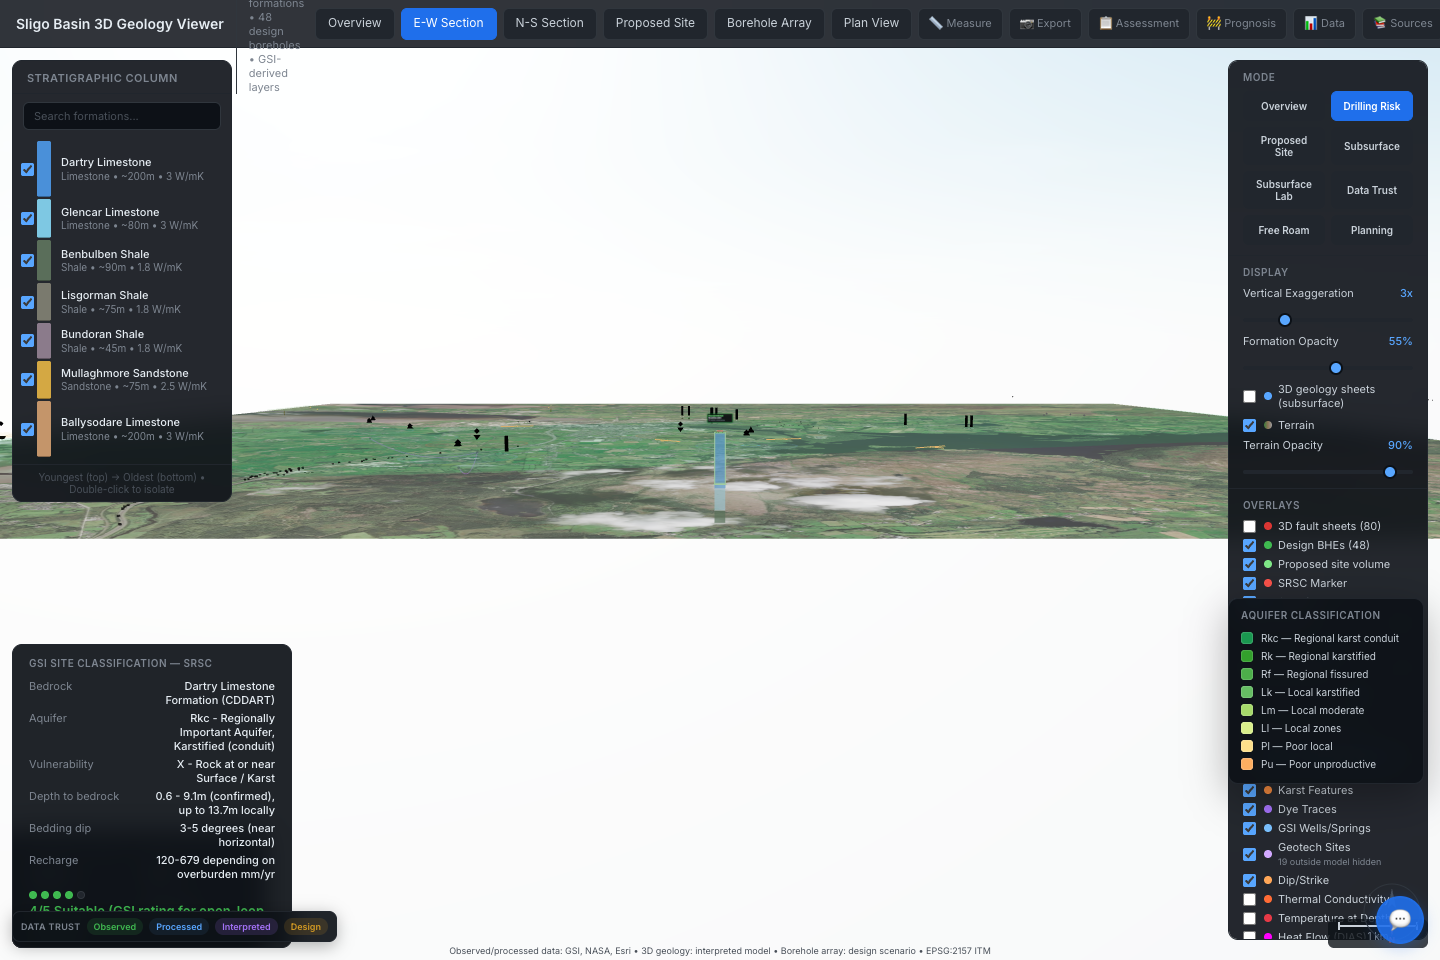
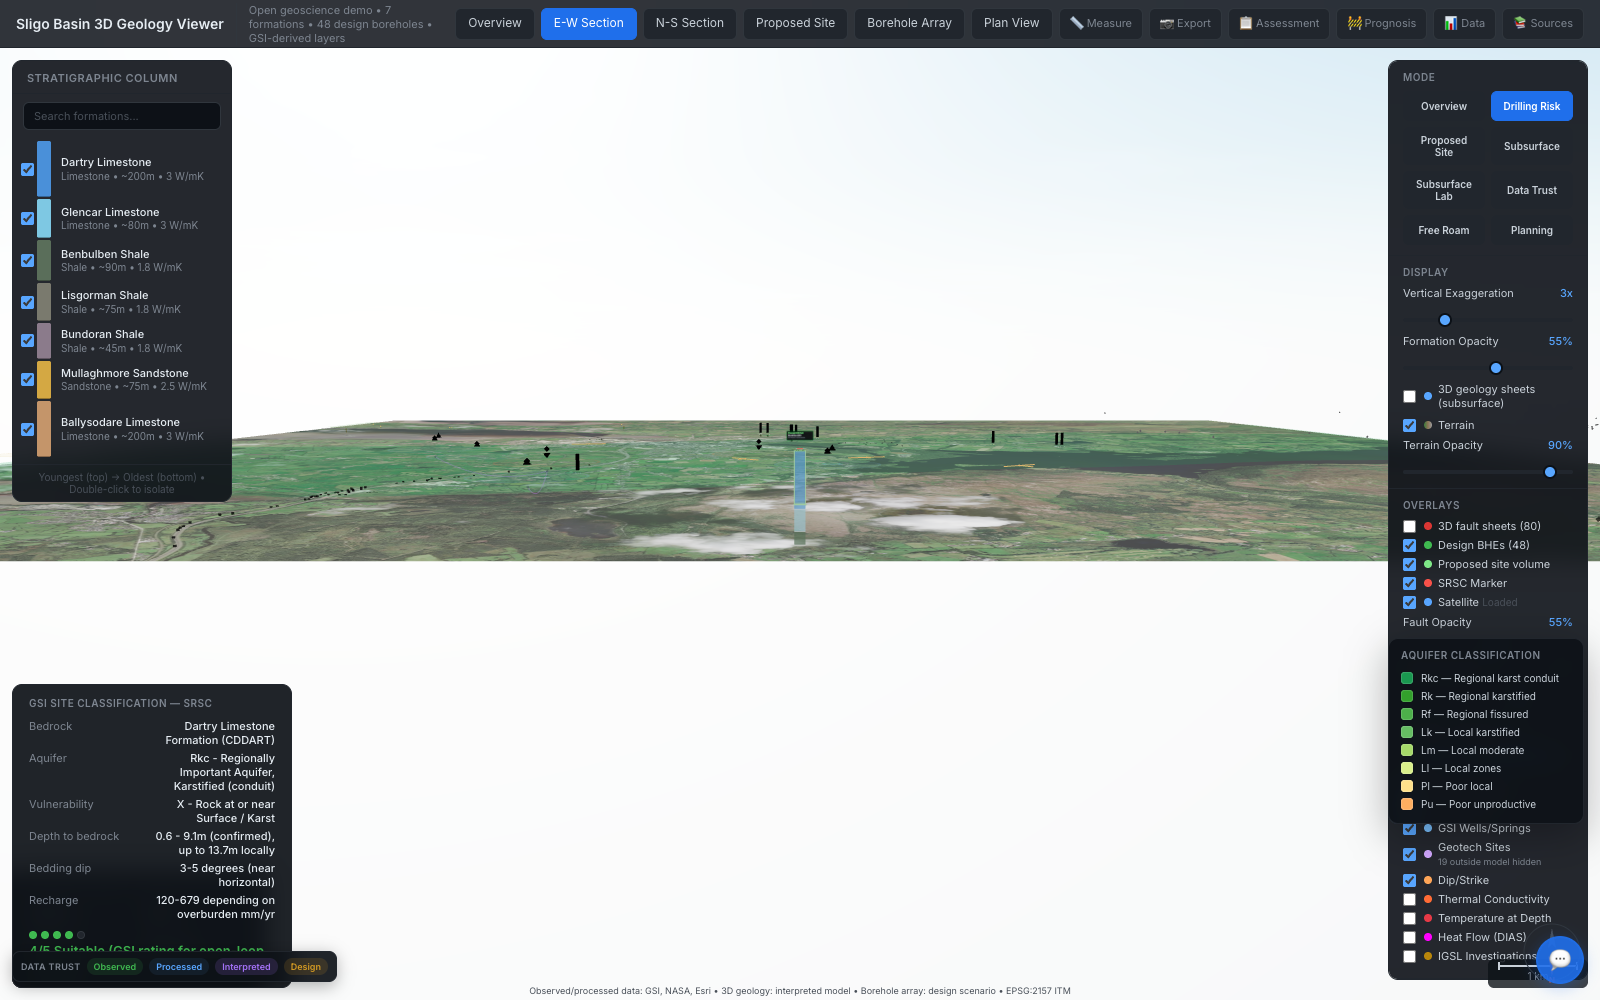
Refresh portfolio screenshots

diff --git a/README.md b/README.md
@@ -16,13 +16,17 @@ It turns public geoscience datasets into an interactive subsurface scene with fo
 
 ## Screenshots
 
-| Overview | Cross Section |
+| Overview | Proposed Site |
 | --- | --- |
-| ![Overview](docs/assets/overview.png) | ![Cross section](docs/assets/cross-section.png) |
+| ![Overview](docs/assets/overview.png) | ![Proposed site](docs/assets/proposed-site.png) |
 
-| Drilling Risk | Data Provenance |
+| Cross Section | Drilling Risk |
 | --- | --- |
-| ![Drilling risk](docs/assets/drilling-risk.png) | ![Data provenance](docs/assets/data-provenance.png) |
+| ![Cross section](docs/assets/cross-section.png) | ![Drilling risk](docs/assets/drilling-risk.png) |
+
+| Data Provenance |
+| --- |
+| ![Data provenance](docs/assets/data-provenance.png) |
 
 ## Quick Start
 
